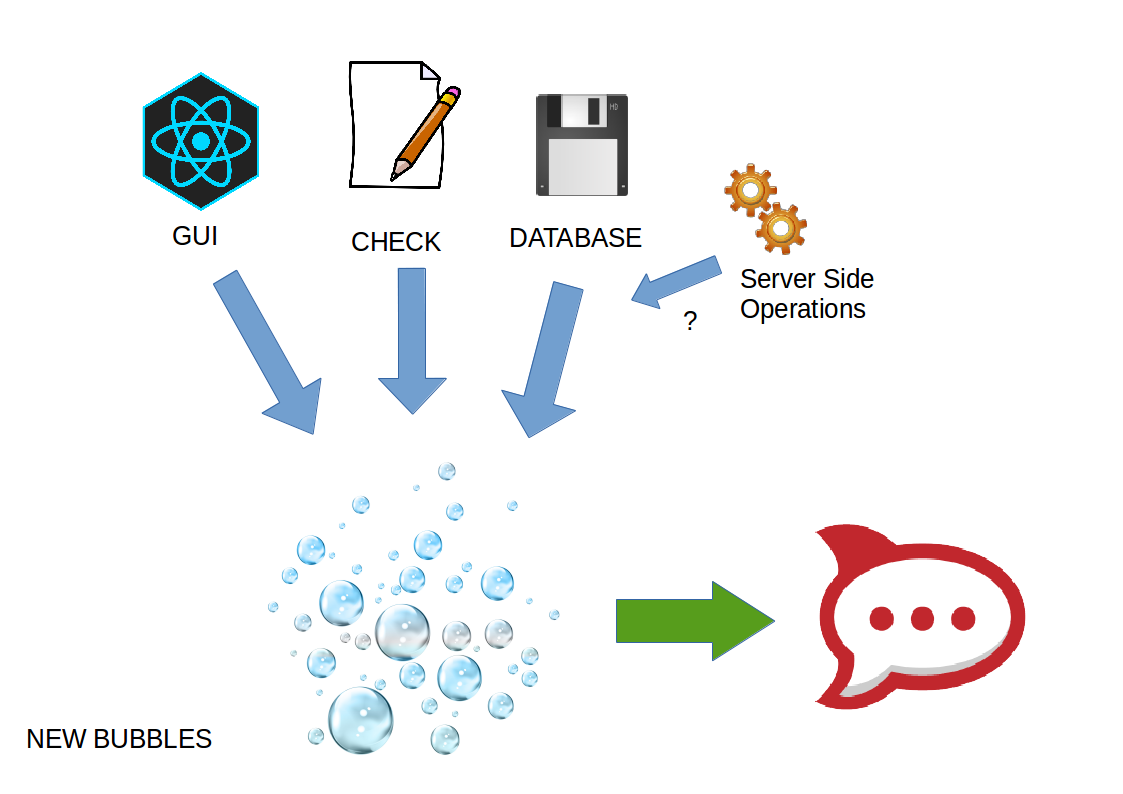
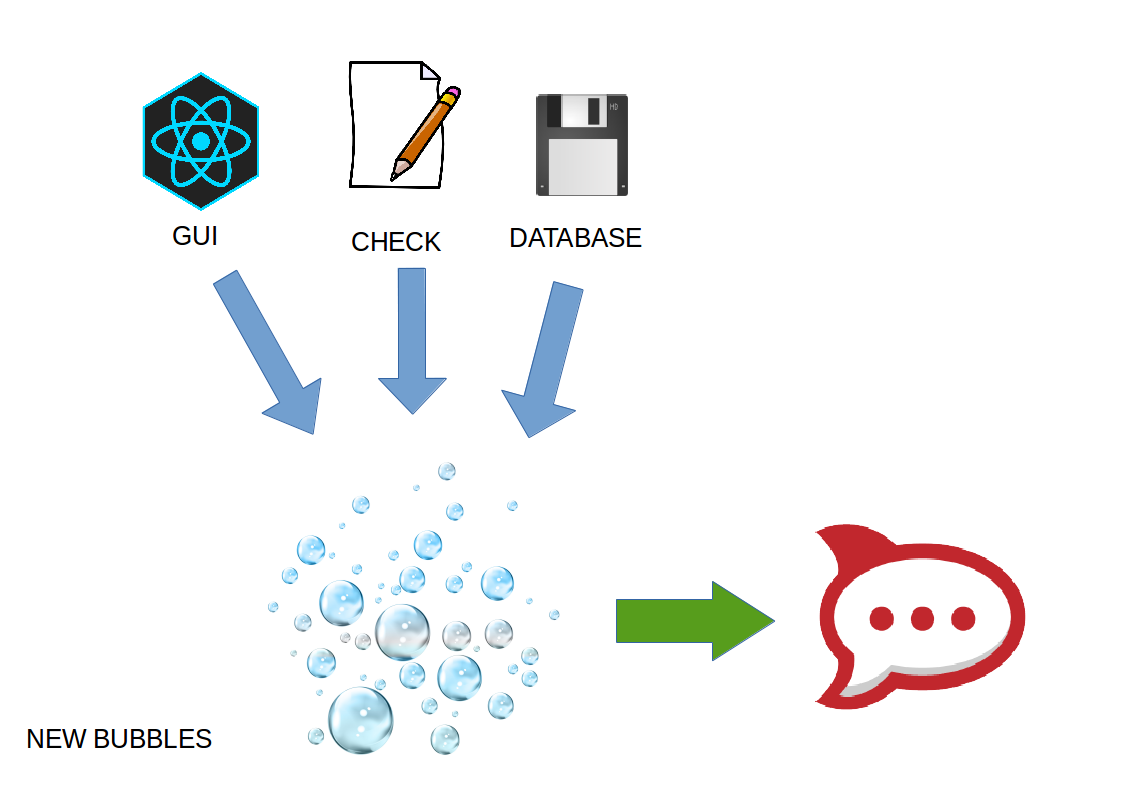
ok

Changed region(s): [[0.561, 0.2116, 0.7792, 0.4232]]

diff --git a/3-RQ/presentazioneRQ/parte2.tex b/3-RQ/presentazioneRQ/parte2.tex
@@ -5,8 +5,43 @@
 
 
 \begin{frame}
-	\frametitle{Funzionamento SDK}
-\begin{center}
-	\includegraphics[width=\linewidth,height=.8\textheight,keepaspectratio]{img/uso_sdk.png}
-\end{center}
+  \frametitle{Funzionamento SDK}
+  \begin{center}
+    \includegraphics[width=\linewidth,height=.8\textheight,keepaspectratio]{img/uso_sdk.png}
+  \end{center}
+\end{frame}
+
+\begin{frame}
+  \begin{columns}[T] % align columns
+    \begin{column}{.48\textwidth}
+      \textbf{Creazione GUI}
+      \begin{itemize}
+      \item Bubble
+        \begin{itemize}
+        \item Sender
+        \item Receiver
+        \end{itemize}
+        \pause
+      \item Configuration Menu
+      \item Button
+        \begin{itemize}\pause
+        \item[$ \rightarrow $] Personalizzazione
+        \end{itemize}
+      \end{itemize}
+    \end{column}
+    \pause
+    \begin{column}{.48\textwidth}
+      \textbf{Server Side Operations}
+      \begin{itemize}
+      \item[] Meteor.method
+        \begin{itemize}
+        \item insert  $ \rightarrow $ Custom method
+        \item update $ \rightarrow $ Custom method
+        \item remove
+        \end{itemize}
+      \end{itemize}
+    \end{column}
+
+  \end{columns}
+
 \end{frame}
